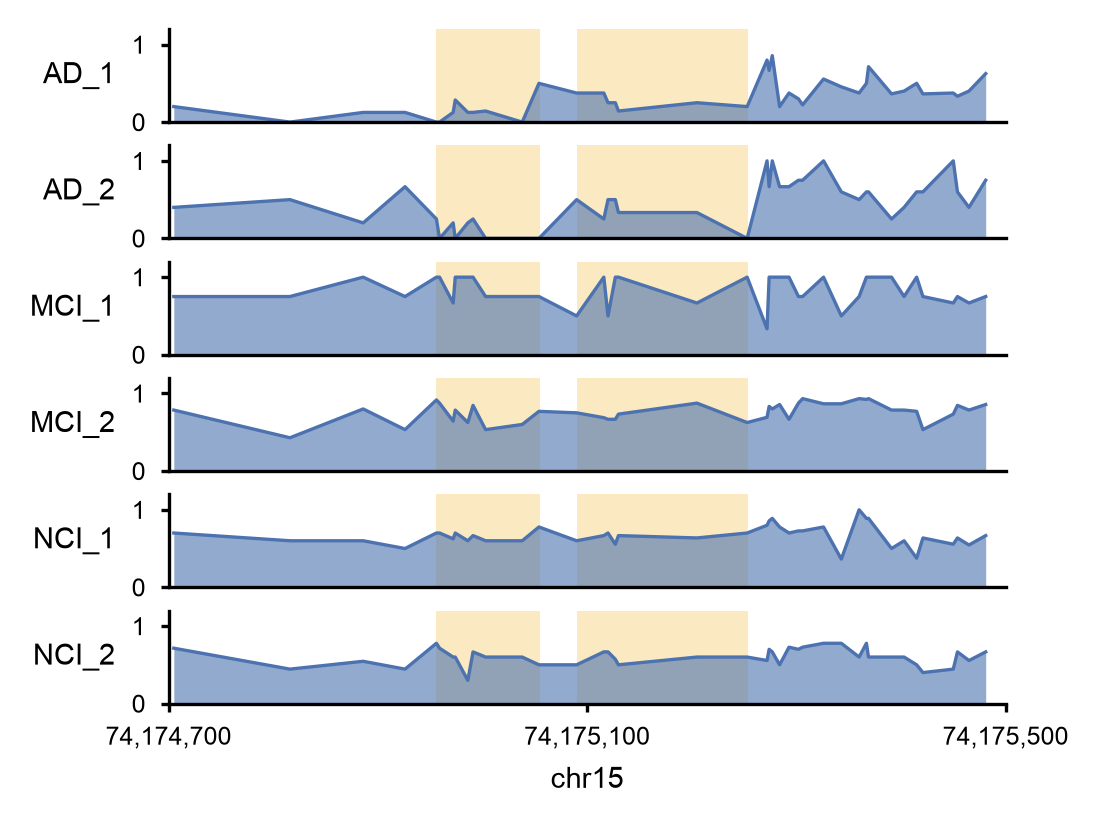
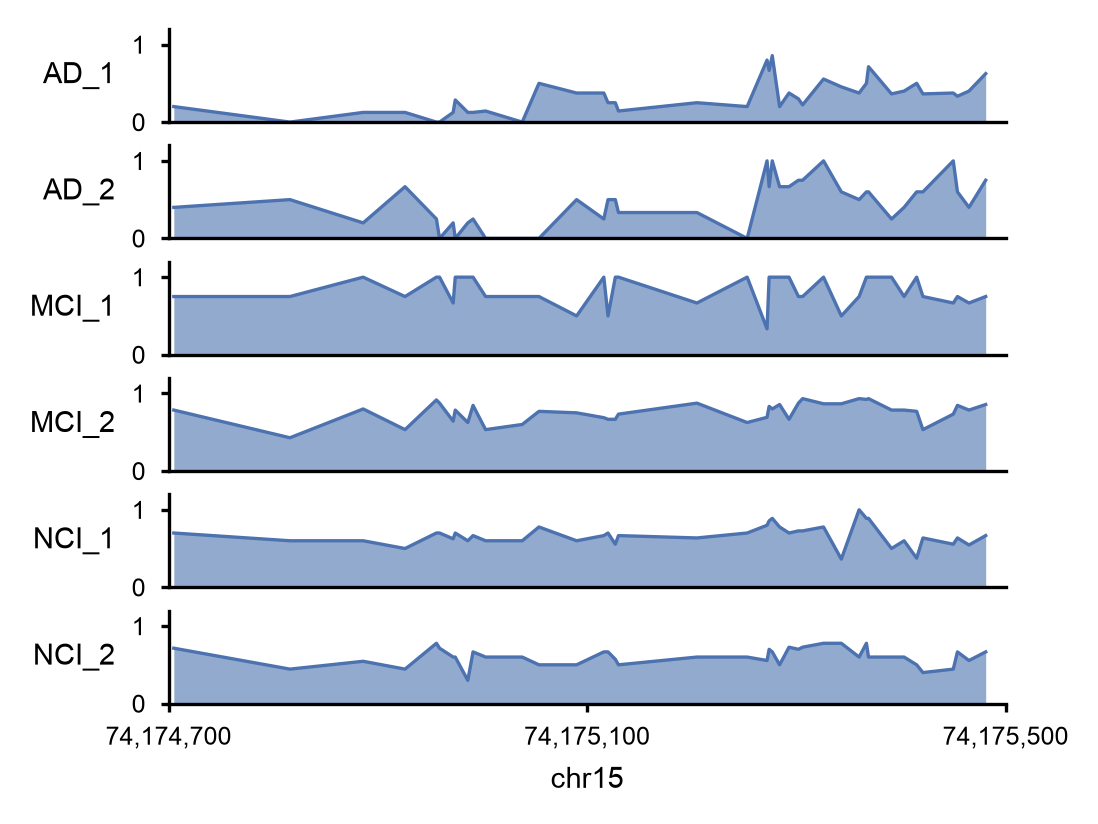
comet_plot_dmr.py: no DMR shading

Changed region(s): [[0.5264, 0.0303, 0.6812, 0.8495], [0.3716, 0.0303, 0.4954, 0.8495]]

diff --git a/bin/comet_plot_dmr.py b/bin/comet_plot_dmr.py
@@ -7,8 +7,7 @@ usage: comet_plot_dmr.py --dmr-dir DMR_OUT {--region chr:start-end | --dmr N [--
 
 --dmr-dir: the --out folder of comet dmr. One track per input file (target files first, then
 background files, as listed in 02.run_info/input_files.tsv), labelled with the sample names
-without their shared prefix and suffix; the significant DMRs (01.dmr/*.sig.bed) in the region
-are shaded. --dmr N plots the N-th significant DMR (row N of *.sig.tsv) with --flank bp on each
+without their shared prefix and suffix. --dmr N plots the N-th significant DMR (row N of *.sig.tsv) with --flank bp on each
 side; --pool draws one pooled track per group instead of one per file.
 --track: one track per --track (top to bottom), for any per-site BEDs; several comma-separated
 FILEs in one track are pooled. Can be added to --dmr-dir tracks.
@@ -29,7 +28,6 @@ from matplotlib import font_manager
 import matplotlib.pyplot as plt
 
 COLOR = '#4C72B0'   # matplotlib / seaborn default blue
-DMR_COLOR = '#F2C14E'
 
 
 def die(msg):
@@ -149,7 +147,6 @@ def main():
         die('region end must be larger than start')
 
     tracks = []   # (label, [files])
-    dmrs = []
     if a.dmr_dir:
         rows = dmr_dir_inputs(a.dmr_dir)
         if a.pool:
@@ -159,11 +156,6 @@ def main():
         else:
             for name, r in zip(short_names([r['sample'] for r in rows]), rows):
                 tracks.append((name, [r['file']]))
-        with open(dmr_file(a.dmr_dir, 'bed')) as fh:
-            for line in fh:
-                f = line.split('\t')
-                if f[0] == chrom and int(f[2]) > start and int(f[1]) < end:
-                    dmrs.append((int(f[1]), int(f[2])))
     for t in a.track:
         if '=' not in t:
             die('--track must be LABEL=FILE[,FILE...]: %s' % t)
@@ -176,8 +168,6 @@ def main():
                              gridspec_kw={'hspace': 0.25})
     axes = axes[:, 0]
     for ax, (label, paths) in zip(axes, tracks):
-        for s, e in dmrs:
-            ax.axvspan(s, e, color=DMR_COLOR, alpha=0.35, lw=0)
         x, y = profile(paths, chrom, start, end, a.min_depth)
         ax.plot(x, y, color=COLOR, lw=0.8)
         ax.fill_between(x, y, 0, color=COLOR, alpha=0.6, lw=0)
@@ -200,7 +190,7 @@ def main():
         os.makedirs(d, exist_ok=True)
     for ext in ('pdf', 'png'):
         fig.savefig('%s.%s' % (a.out, ext))
-    print('%s.pdf / .png: %d tracks, %s:%d-%d, %d DMR(s) shaded' % (a.out, n, chrom, start, end, len(dmrs)))
+    print('%s.pdf / .png: %d tracks, %s:%d-%d' % (a.out, n, chrom, start, end))
 
 
 if __name__ == '__main__':

diff --git a/docs/dmr.md b/docs/dmr.md
@@ -131,8 +131,7 @@ microglia and methylated in MCI and NCI microglia:
 
 <img src="../example/output/dmr/region.png" width="520">
 
-The tracks show per-CpG microglia methylation over chr15:74,174,700-74,175,500 (CpGs with ≥ 1 read);
-the significant DMRs are shaded.
+The tracks show per-CpG microglia methylation over chr15:74,174,700-74,175,500 (CpGs with ≥ 1 read).
 
 ### Plot a region
 
@@ -140,7 +139,7 @@ the significant DMRs are shaded.
 from a `comet dmr` output folder, for any region:
 
 ```bash
-# one track per input file (target first), significant DMRs shaded
+# one track per input file (target first)
 comet_plot_dmr.py --dmr-dir output/dmr --region chr15:74,174,700-74,175,500 --out output/dmr/region
 
 # the N-th significant DMR (row N of *.sig.tsv) with 300 bp on each side

diff --git a/CHANGELOG.md b/CHANGELOG.md
@@ -12,8 +12,8 @@ Format: [Keep a Changelog](https://keepachangelog.com/en/1.1.0/); versions follo
   does not need the repository.
 - Installation with Bioconda or from source only; the Docker image is no longer built.
 - `comet_plot_dmr.py`: methylation tracks of a region (`--region`) or of the N-th significant DMR
-  (`--dmr N`) from a `comet dmr` output folder, one track per input file or per group (`--pool`),
-  significant DMRs shaded. Replaces `example/plot_dmr_region.py`.
+  (`--dmr N`) from a `comet dmr` output folder, one track per input file or per group (`--pool`).
+  Replaces `example/plot_dmr_region.py`.
 
 ## [1.1.0] - 2026-11-18
 
